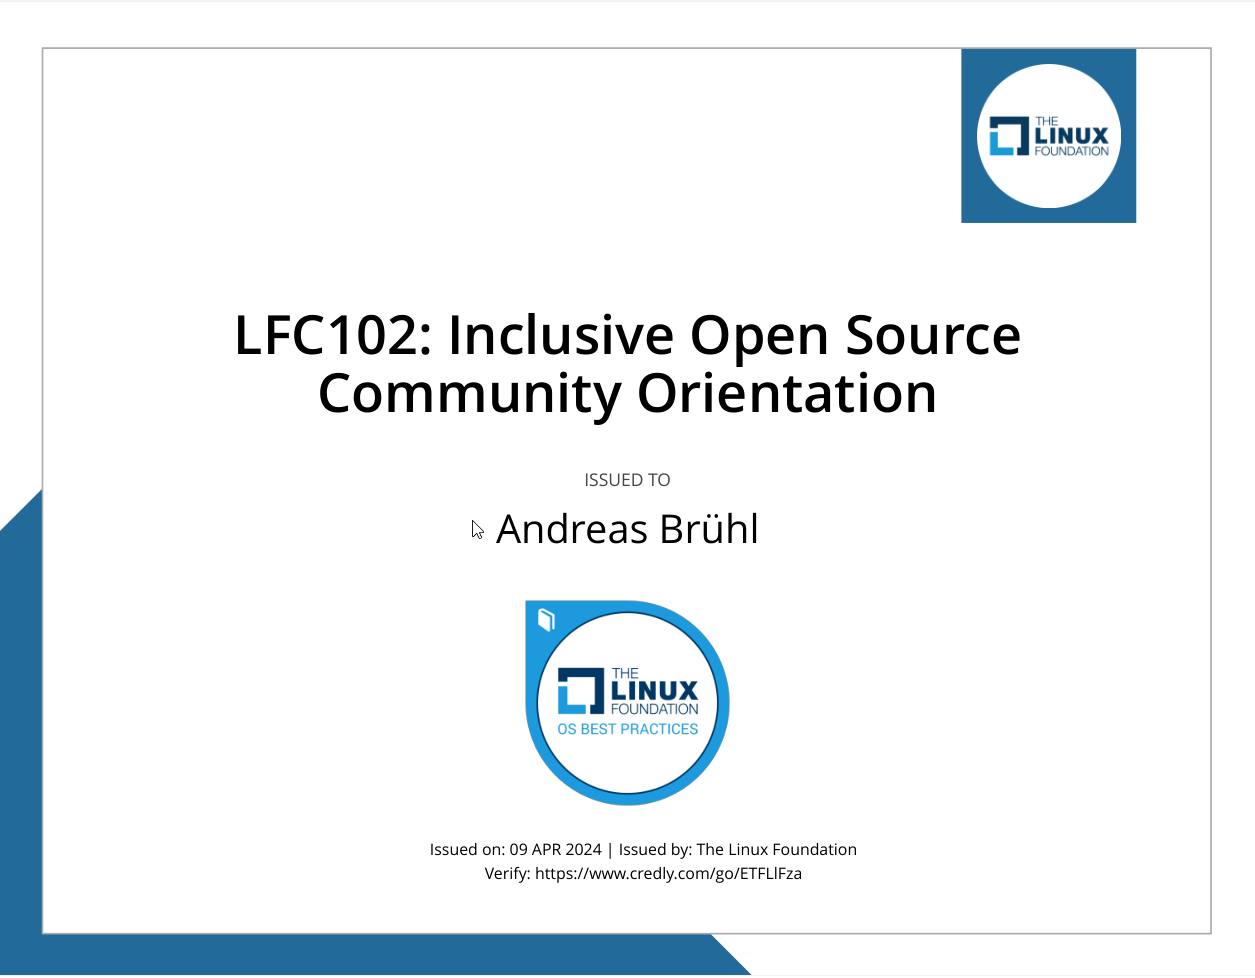
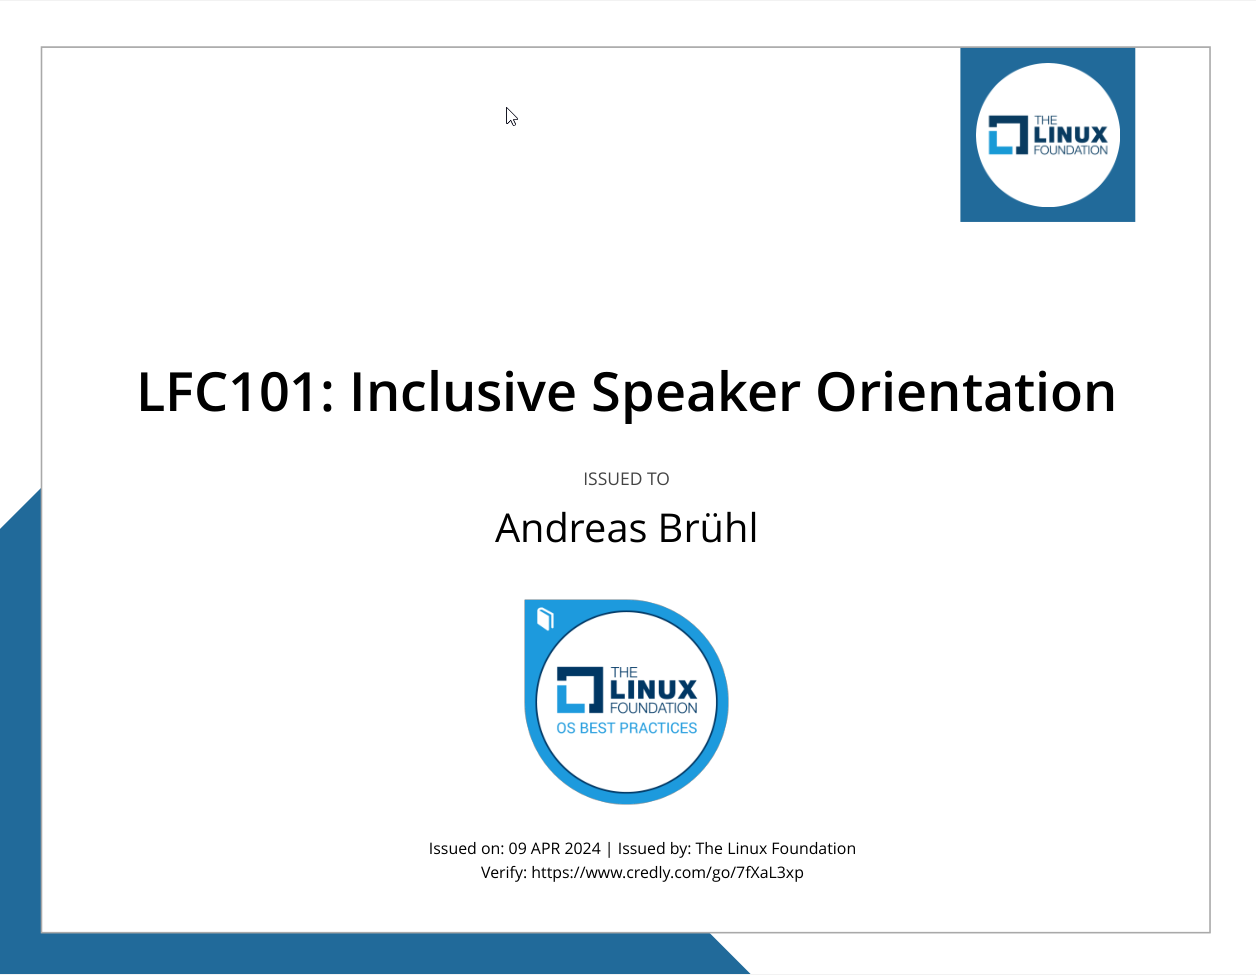
added cert

diff --git a/src/components/Links/Links.js b/src/components/Links/Links.js
@@ -61,10 +61,10 @@ const Links = () => {
     textDecoration: "none",
   };
 
-  const linkStyles = {
-    color: "white",
-    textDecoration: "none", // Keine Unterstreichung
-  };
+  // const linkStyles = {
+  //   color: "white",
+  //   textDecoration: "none", // Keine Unterstreichung
+  // };
 
   return (
     <div className={classes.Links} id="links">
@@ -76,7 +76,11 @@ const Links = () => {
               <div style={textContainerStyles}>
                 <br></br>
                 <p style={paragraphStyles}>
-                  <a href="https://github.com/AndiBruehl" target="_blank">
+                  <a
+                    href="https://github.com/AndiBruehl"
+                    target="_blank"
+                    rel="noreferrer"
+                  >
                     <img
                       src="https://www.svgrepo.com/show/512317/github-142.svg"
                       width="20px"
@@ -92,6 +96,7 @@ const Links = () => {
                   <a
                     href="https://andibruehl.github.io/JavaScriptGames/Spielstart.html"
                     target="_blank"
+                    rel="noreferrer"
                   >
                     <img
                       src="https://www.svgrepo.com/show/452875/bird.svg"
@@ -108,6 +113,7 @@ const Links = () => {
                   <a
                     href="https://andibruehl.github.io/Quiztopia"
                     target="_blank"
+                    rel="noreferrer"
                   >
                     <img
                       src="https://www.svgrepo.com/show/509211/question.svg"
@@ -124,6 +130,7 @@ const Links = () => {
                   <a
                     href="https://andibruehl.github.io/WeatherNow/"
                     target="_blank"
+                    rel="noreferrer"
                   >
                     <img
                       src="https://www.svgrepo.com/show/494028/weather-2.svg"
@@ -140,6 +147,7 @@ const Links = () => {
                   <a
                     href="https://bastiwho.github.io/WeatherNow/"
                     target="_blank"
+                    rel="noreferrer"
                   >
                     <img
                       src="https://www.svgrepo.com/show/494028/weather-2.svg"
@@ -149,7 +157,11 @@ const Links = () => {
                       style={svgStyles}
                     />{" "}
                     WeatherNow - Alternative Landingpage{" "}
-                    <a href="https://github.com/bastiwho" target="_blank">
+                    <a
+                      href="https://github.com/bastiwho"
+                      target="_blank"
+                      rel="noreferrer"
+                    >
                       (made by @BastiWho)
                     </a>
                   </a>
@@ -159,6 +171,7 @@ const Links = () => {
                   <a
                     href="https://fightingsamurais.netlify.app/"
                     target="_blank"
+                    rel="noreferrer"
                   >
                     <img
                       src="https://www.svgrepo.com/show/483746/samurai.svg"
@@ -175,6 +188,7 @@ const Links = () => {
                   <a
                     href="https://pokemonlikestyledgame.netlify.app/"
                     target="_blank"
+                    rel="noreferrer"
                   >
                     <img
                       src="https://www.svgrepo.com/show/54691/pokemon.svg"
@@ -191,6 +205,7 @@ const Links = () => {
                   <a
                     href="https://bookieslist.github.io/bookieslist/"
                     target="_blank"
+                    rel="noreferrer"
                   >
                     <img
                       src="https://www.svgrepo.com/show/533406/book.svg"
@@ -204,7 +219,11 @@ const Links = () => {
                 </p>
 
                 <p style={paragraphStyles}>
-                  <a href="https://liefermax-mu.vercel.app/" target="_blank">
+                  <a
+                    href="https://liefermax-mu.vercel.app/"
+                    target="_blank"
+                    rel="noreferrer"
+                  >
                     <img
                       src="https://www.svgrepo.com/show/482679/cook-hat.svg"
                       width="20px"
@@ -217,7 +236,11 @@ const Links = () => {
                 </p>
 
                 <p style={paragraphStyles}>
-                  <a href="https://achat.vercel.app/" target="_blank">
+                  <a
+                    href="https://achat.vercel.app/"
+                    target="_blank"
+                    rel="noreferrer"
+                  >
                     <img
                       src="https://www.svgrepo.com/show/412082/stream.svg"
                       width="20px"
@@ -230,7 +253,11 @@ const Links = () => {
                 </p>
 
                 <p style={paragraphStyles}>
-                  <a href="https://farbgenerator.netlify.app/" target="_blank">
+                  <a
+                    href="https://farbgenerator.netlify.app/"
+                    target="_blank"
+                    rel="noreferrer"
+                  >
                     <img
                       src="https://www.svgrepo.com/show/497798/brush-1.svg"
                       width="20px"
@@ -243,7 +270,11 @@ const Links = () => {
                 </p>
 
                 <p style={paragraphStyles}>
-                  <a href="https://job-star.vercel.app/landing" target="_blank">
+                  <a
+                    href="https://job-star.vercel.app/landing"
+                    target="_blank"
+                    rel="noreferrer"
+                  >
                     <img
                       src="https://www.svgrepo.com/show/138396/job-post.svg"
                       width="20px"
@@ -258,6 +289,7 @@ const Links = () => {
                   <a
                     href="https://search4githubusers.netlify.app/"
                     target="_blank"
+                    rel="noreferrer"
                   >
                     <img
                       src="https://www.svgrepo.com/show/506654/github.svg"

diff --git a/src/components/Certs/ImageImport.jsx b/src/components/Certs/ImageImport.jsx
@@ -23,6 +23,7 @@ import slide_image_22 from "./assets/images/image22.png";
 import slide_image_23 from "./assets/images/image23.png";
 import slide_image_24 from "./assets/images/image24.png";
 import slide_image_25 from "./assets/images/image25.png";
+import slide_image_26 from "./assets/images/image26.png";
 
 const images = [
   slide_image_1,
@@ -37,19 +38,20 @@ const images = [
   slide_image_13,
   slide_image_14,
   slide_image_15,
+  slide_image_16,
   slide_image_21,
   slide_image_17,
-  slide_image_16,
   slide_image_20,
   slide_image_18,
   slide_image_22,
   slide_image_19,
+  slide_image_23,
   slide_image_7,
   slide_image_8,
   slide_image_9,
-  slide_image_23,
   slide_image_24,
   slide_image_25,
+  slide_image_26,
 ];
 
 export default images;

diff --git a/src/components/Certs/Certs.js b/src/components/Certs/Certs.js
@@ -68,34 +68,6 @@ const ModalImage = styled.img`
   max-height: 900px;
 `;
 
-//   slide_image_1,
-//   slide_image_2,
-//   slide_image_3,
-//   slide_image_4,
-//   slide_image_5,
-//   slide_image_6,
-
-//   slide_image_10,
-//   slide_image_11,
-//   slide_image_12,
-//   slide_image_13,
-//   slide_image_14,
-//   slide_image_15,
-//   slide_image_21,
-//   slide_image_17,
-//   slide_image_16,
-//   slide_image_20,
-//   slide_image_18,
-//   slide_image_22,
-//   slide_image_19,
-//   slide_image_7,
-//   slide_image_8,
-//   slide_image_9,
-//   slide_image_23,
-//   slide_image_24,
-//   slide_image_25,
-// ];
-
 const Certs = () => {
   const [modalOpen, setModalOpen] = useState(false);
   const [selectedImage, setSelectedImage] = useState("");
